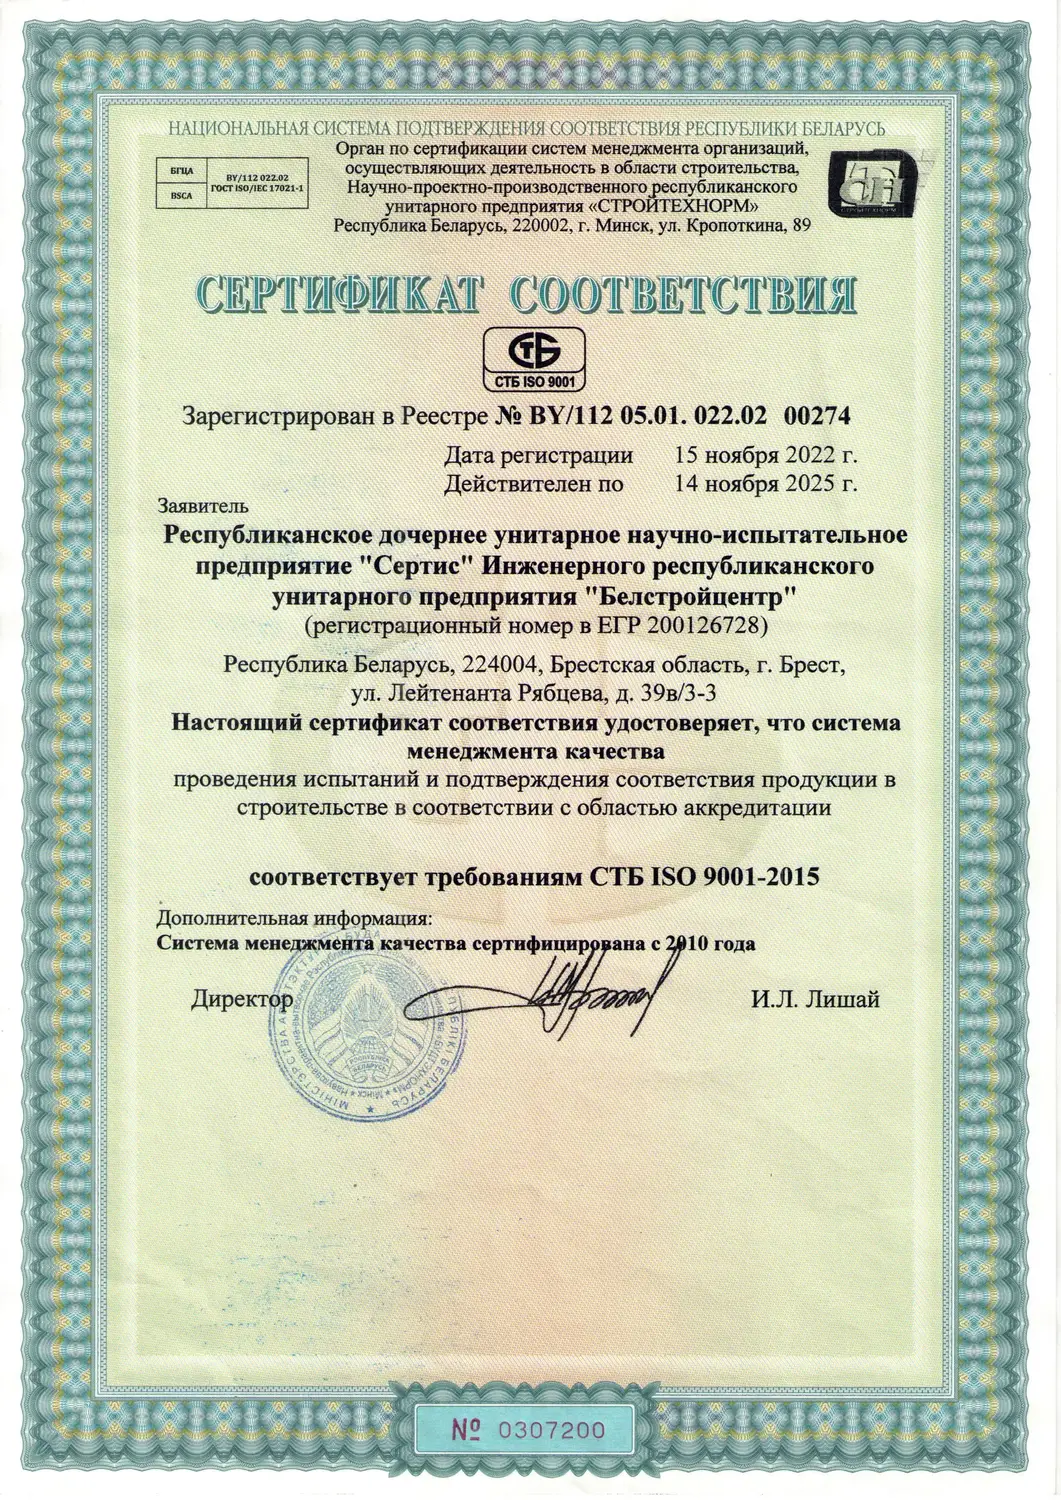
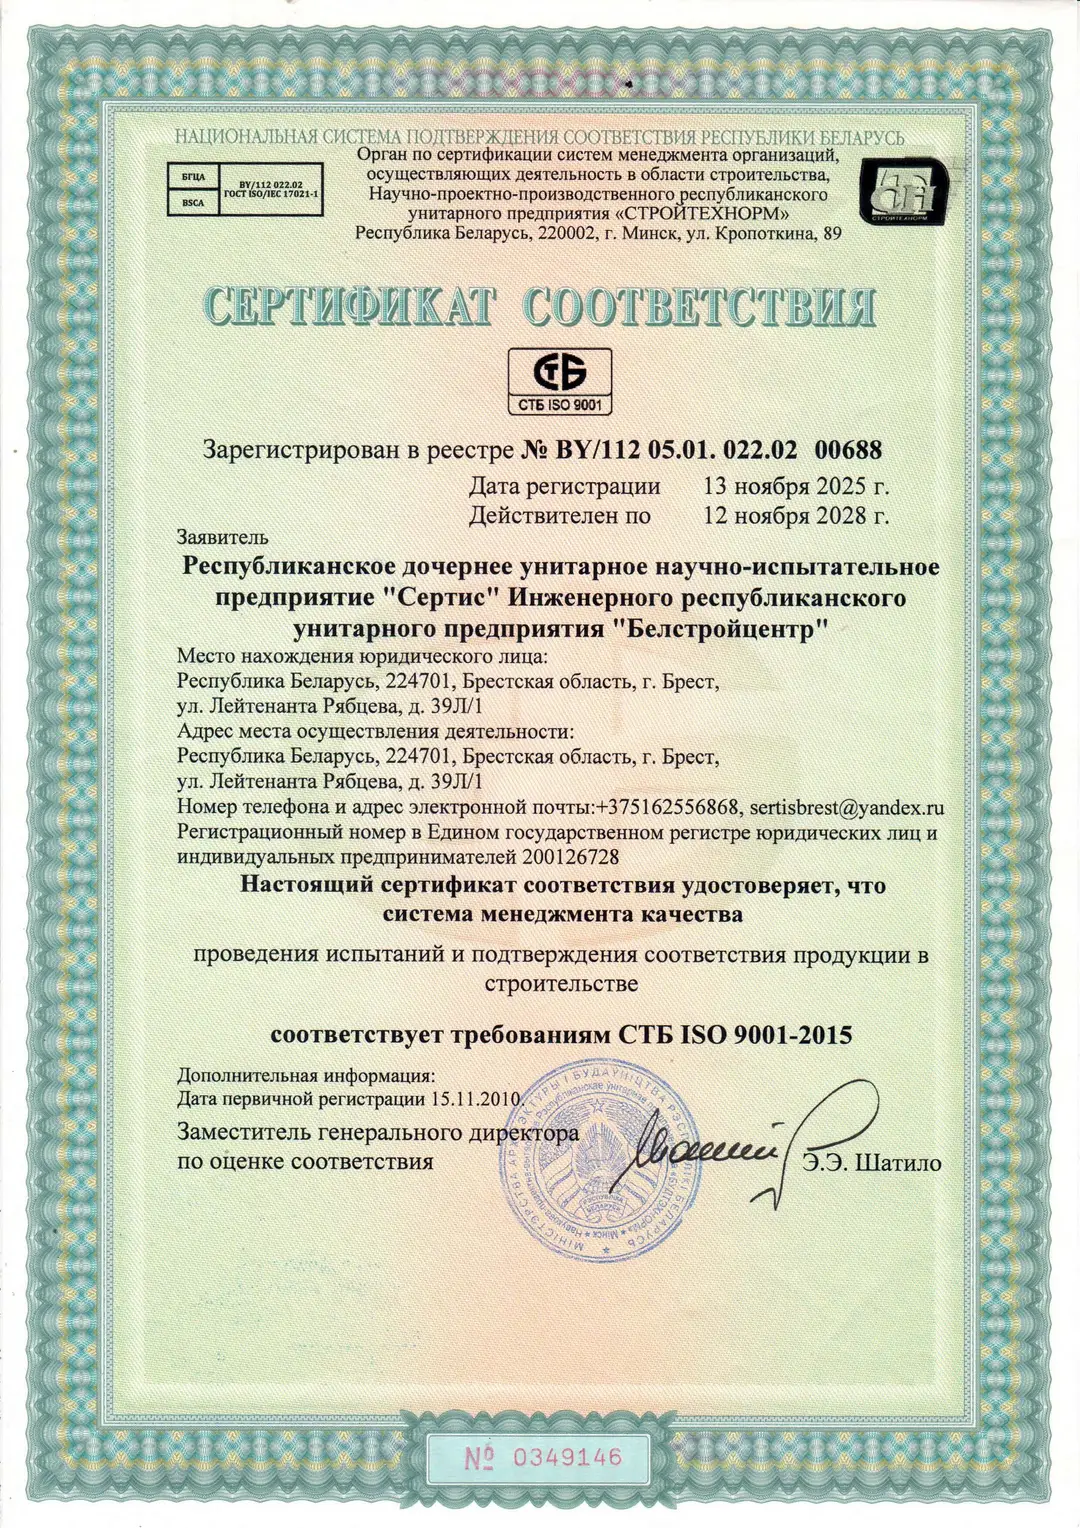
deleted:    assets/img/cert/accreditation-certification.jpg deleted:    assets/img/cert/accreditation-testing-center.jpg deleted:    assets/img/cert/management-system.jpg modified:   assets/img/cert/management-system.webp deleted:    "assets/img/cert/\321\201ertificate.jpg" modified:   certificates.

diff --git a/certificates.html b/certificates.html
@@ -317,7 +317,7 @@
             <div class="col-lg-4 col-md-6 portfolio-item filter-app">
               <div class="portfolio-wrap">
                 <a
-                  href="assets/img/cert/accreditation-certification.jpg"
+                  href="assets/img/cert/accreditation-certification.webp"
                   target="_blank"
                   ><img
                     src="assets/img/cert/accreditation-certification.webp"
@@ -350,7 +350,7 @@
             <div class="col-lg-4 col-md-6 portfolio-item filter-app">
               <div class="portfolio-wrap">
                 <a
-                  href="assets/img/cert/accreditation-testing-center.jpg"
+                  href="assets/img/cert/accreditation-testing-center.webp"
                   target="_blank"
                 >
                   <img
@@ -384,7 +384,7 @@
           <div class="row gy-4" id="certificates-3">
             <div class="col-lg-4 col-md-6 portfolio-item filter-app">
               <div class="portfolio-wrap">
-                <a href="assets/img/cert/management-system.jpg" target="_blank">
+                <a href="assets/img/cert/management-system.webp" target="_blank">
                   <img
                     src="assets/img/cert/management-system.webp"
                     class="img-fluid"
@@ -403,10 +403,10 @@
                     <a
                       href="https://tsouz.belgiss.by/#!/nsps/certifs/2975340/view"
                       target="_blank"
-                      >BY/112 05.01. 022.02 00274</a
+                      >BY/112 05.01. 022.02 00688</a
                     >
                   </li>
-                  <li>Срок действия: с 15 ноября 2022 по 14 ноября 2025</li>
+                  <li>Срок действия: с 13 ноября 2025 по 12 ноября 2028</li>
                 </ul>
               </div>
             </div>
@@ -415,7 +415,7 @@
           <div class="row gy-4" id="certificates-4">
             <div class="col-lg-4 col-md-6 portfolio-item filter-app">
               <div class="portfolio-wrap">
-                <a href="assets/img/cert/сertificate.jpg" target="_blank">
+                <a href="assets/img/cert/сertificate.webp" target="_blank">
                   <img
                     src="assets/img/cert/сertificate.webp"
                     class="img-fluid"
